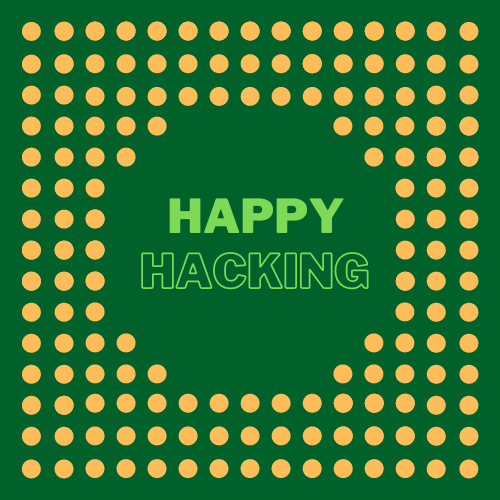
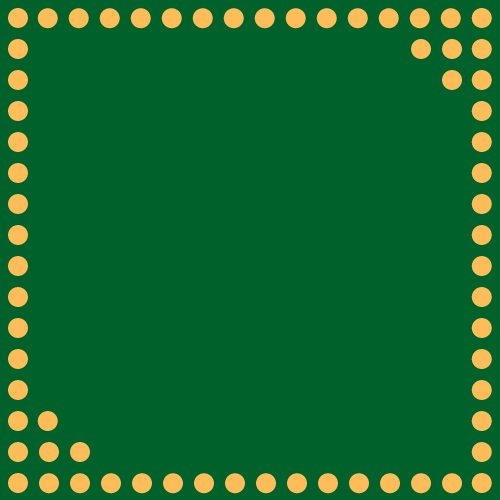
styled about and added credits

diff --git a/out/production/MIC-1-Simulator/css/styles.css b/out/production/MIC-1-Simulator/css/styles.css
@@ -64,3 +64,7 @@
     -fx-background-color: white;
     -fx-border-color: lightgray;
 }
+
+.hyperlink {
+    -fx-border-color: transparent;
+}

diff --git a/resources/css/styles.css b/resources/css/styles.css
@@ -64,3 +64,7 @@
     -fx-background-color: white;
     -fx-border-color: lightgray;
 }
+
+.hyperlink {
+    -fx-border-color: transparent;
+}

diff --git a/src/sample/AboutController.java b/src/sample/AboutController.java
@@ -1,30 +1,43 @@
 package sample;
 
+import javafx.event.ActionEvent;
 import javafx.scene.control.Button;
+import javafx.scene.control.Hyperlink;
+import javafx.scene.control.Label;
 import javafx.scene.image.Image;
 import javafx.scene.image.ImageView;
 
 public class AboutController {
     public ImageView imageView;
-    public Button frontBtn;
-    public Button backBtn;
     private final Image backImg;
     private final Image frontImg;
+    public Hyperlink creditsLink;
+    public Hyperlink backLink;
+    public Label contentLabel;
+    public Label creditsLabel;
 
     public AboutController() {
         backImg = new Image(getClass().getResourceAsStream("/img/aboutBack.png"));
         frontImg = new Image(getClass().getResourceAsStream("/img/aboutFront.png"));
     }
 
-    public void flipToBack() {
-        imageView.setImage(backImg);
-        frontBtn.setDisable(true);
-        backBtn.setDisable(false);
+    public void backAction() {
+        imageView.setImage(frontImg);
+        creditsLink.setOpacity(1);
+        creditsLink.setDisable(false);
+        contentLabel.setOpacity(0);
+        backLink.setOpacity(0);
+        backLink.setDisable(true);
+        creditsLabel.setOpacity(0);
     }
 
-    public void flipToFront() {
-        imageView.setImage(frontImg);
-        frontBtn.setDisable(false);
-        backBtn.setDisable(true);
+    public void showCreditsAction() {
+        imageView.setImage(backImg);
+        creditsLink.setOpacity(0);
+        creditsLink.setDisable(true);
+        contentLabel.setOpacity(1);
+        backLink.setOpacity(1);
+        backLink.setDisable(false);
+        creditsLabel.setOpacity(1);
     }
 }
